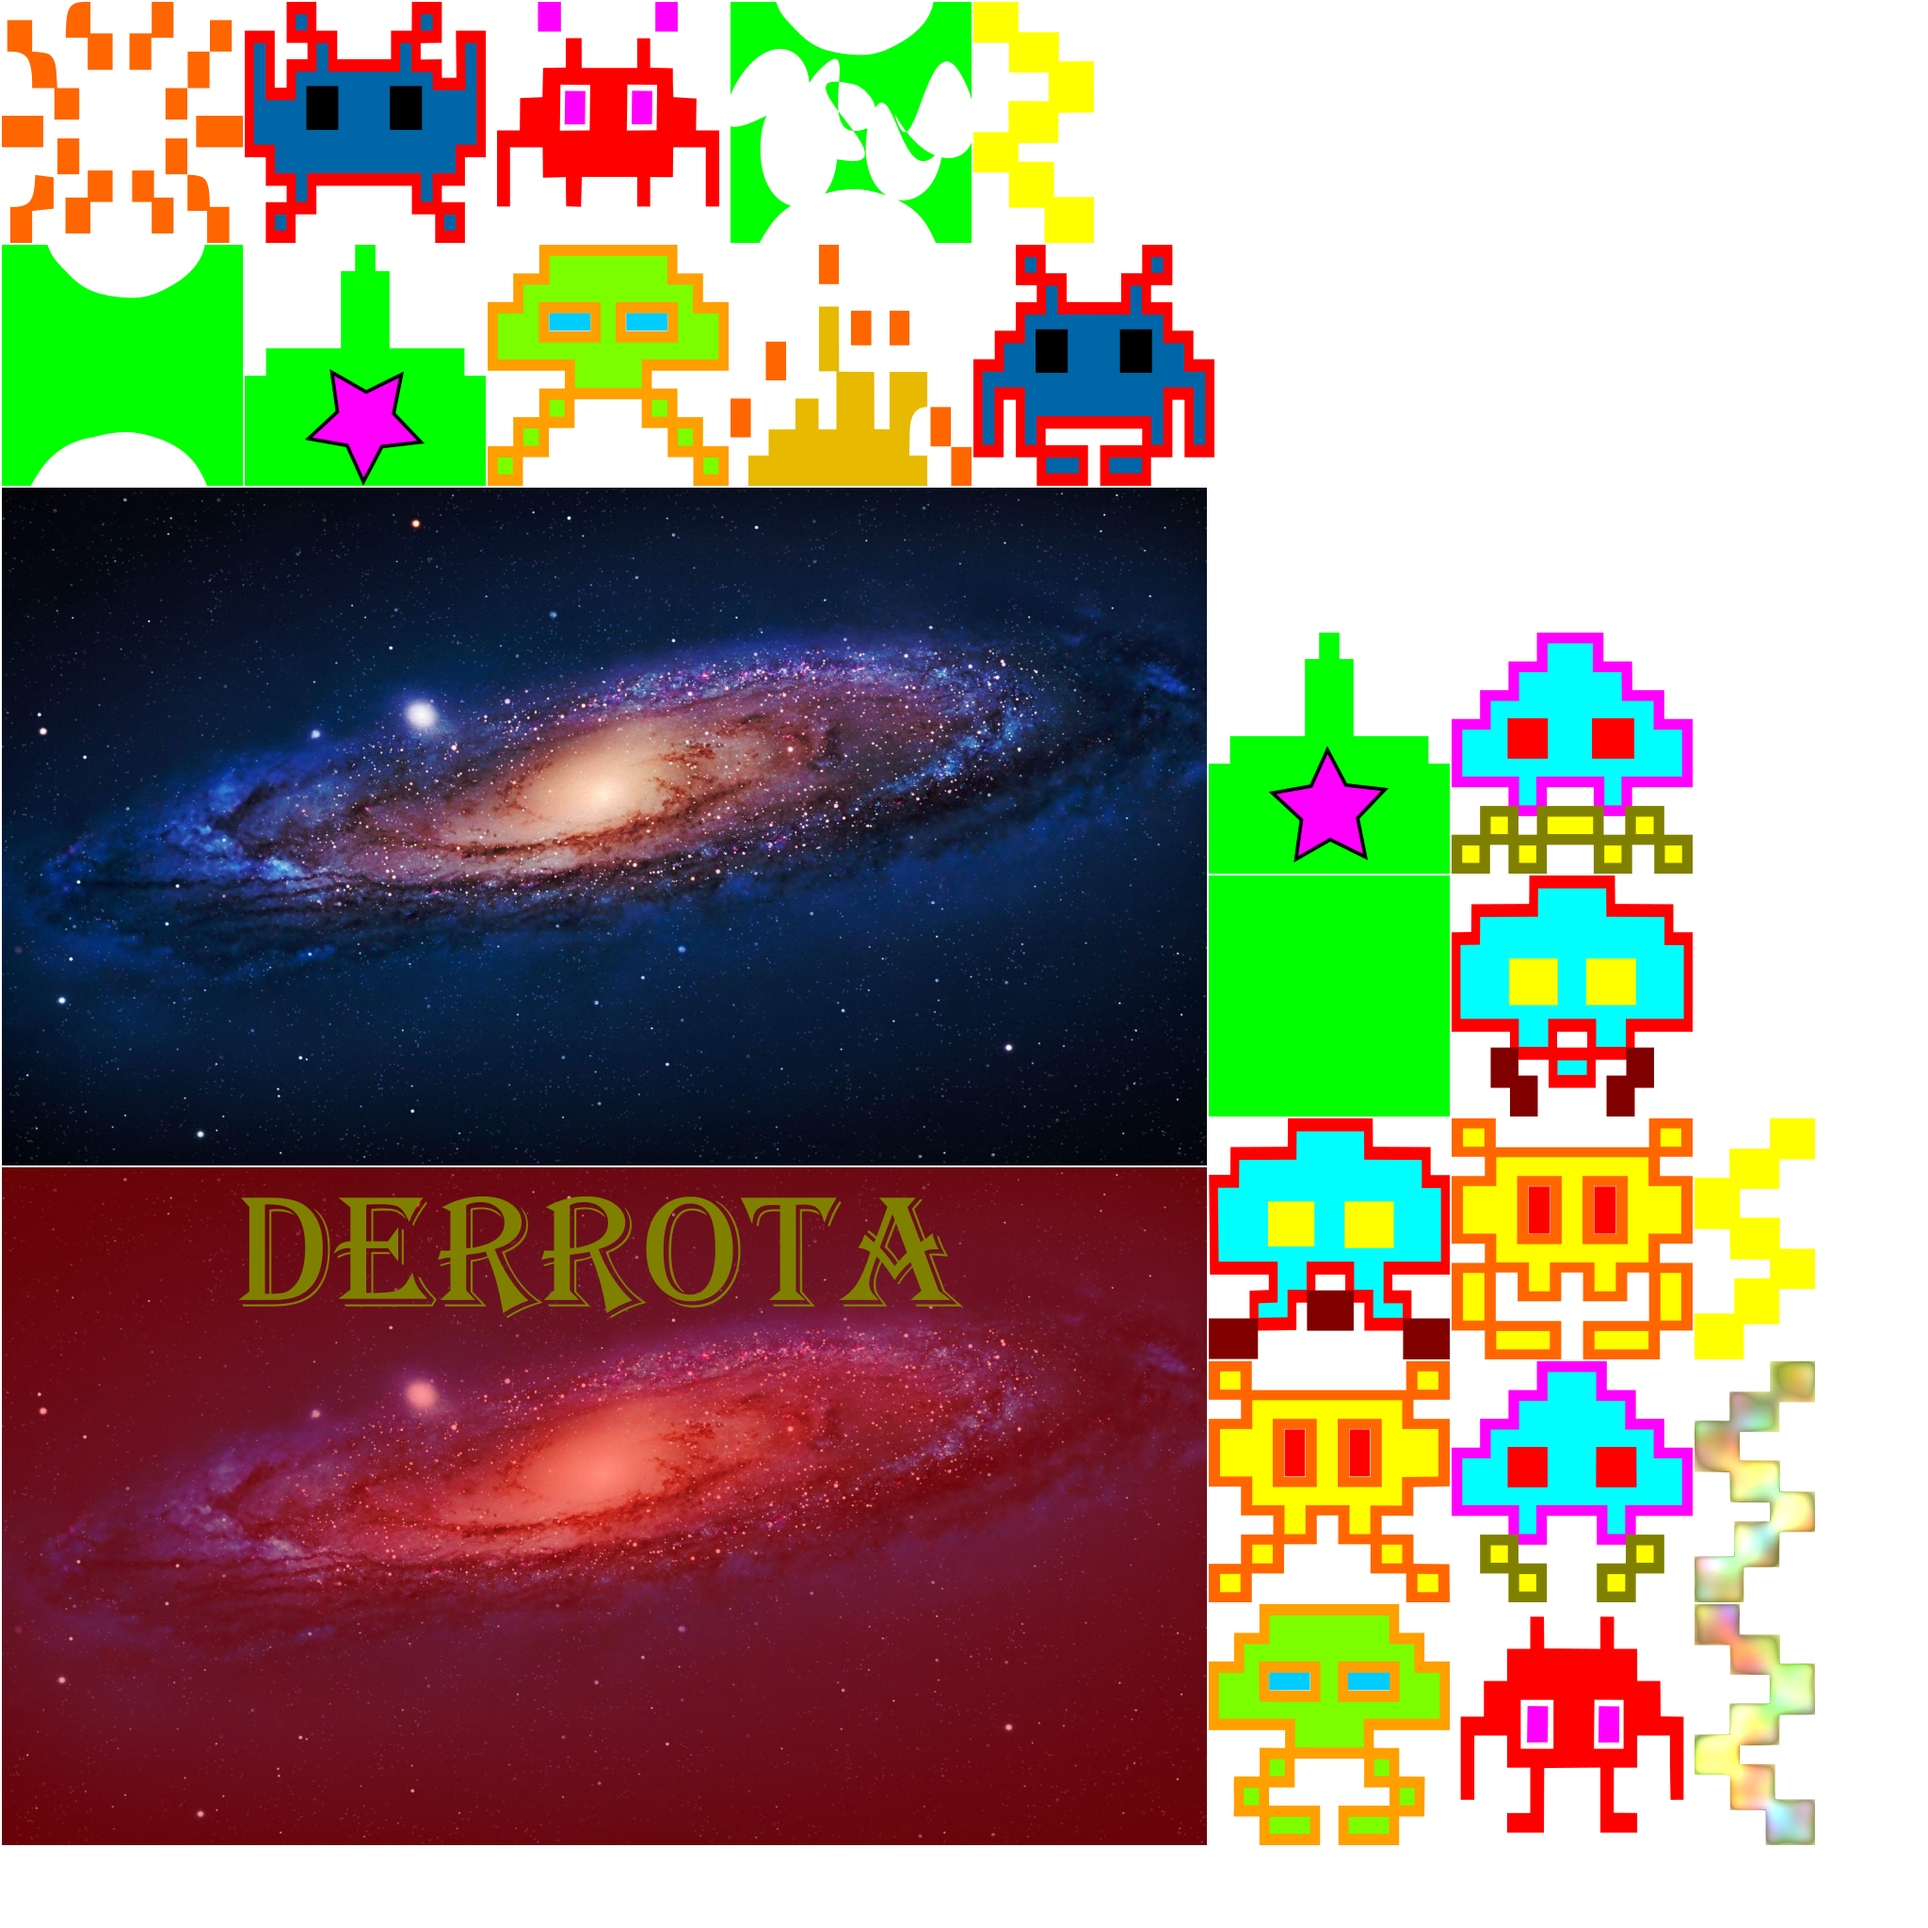
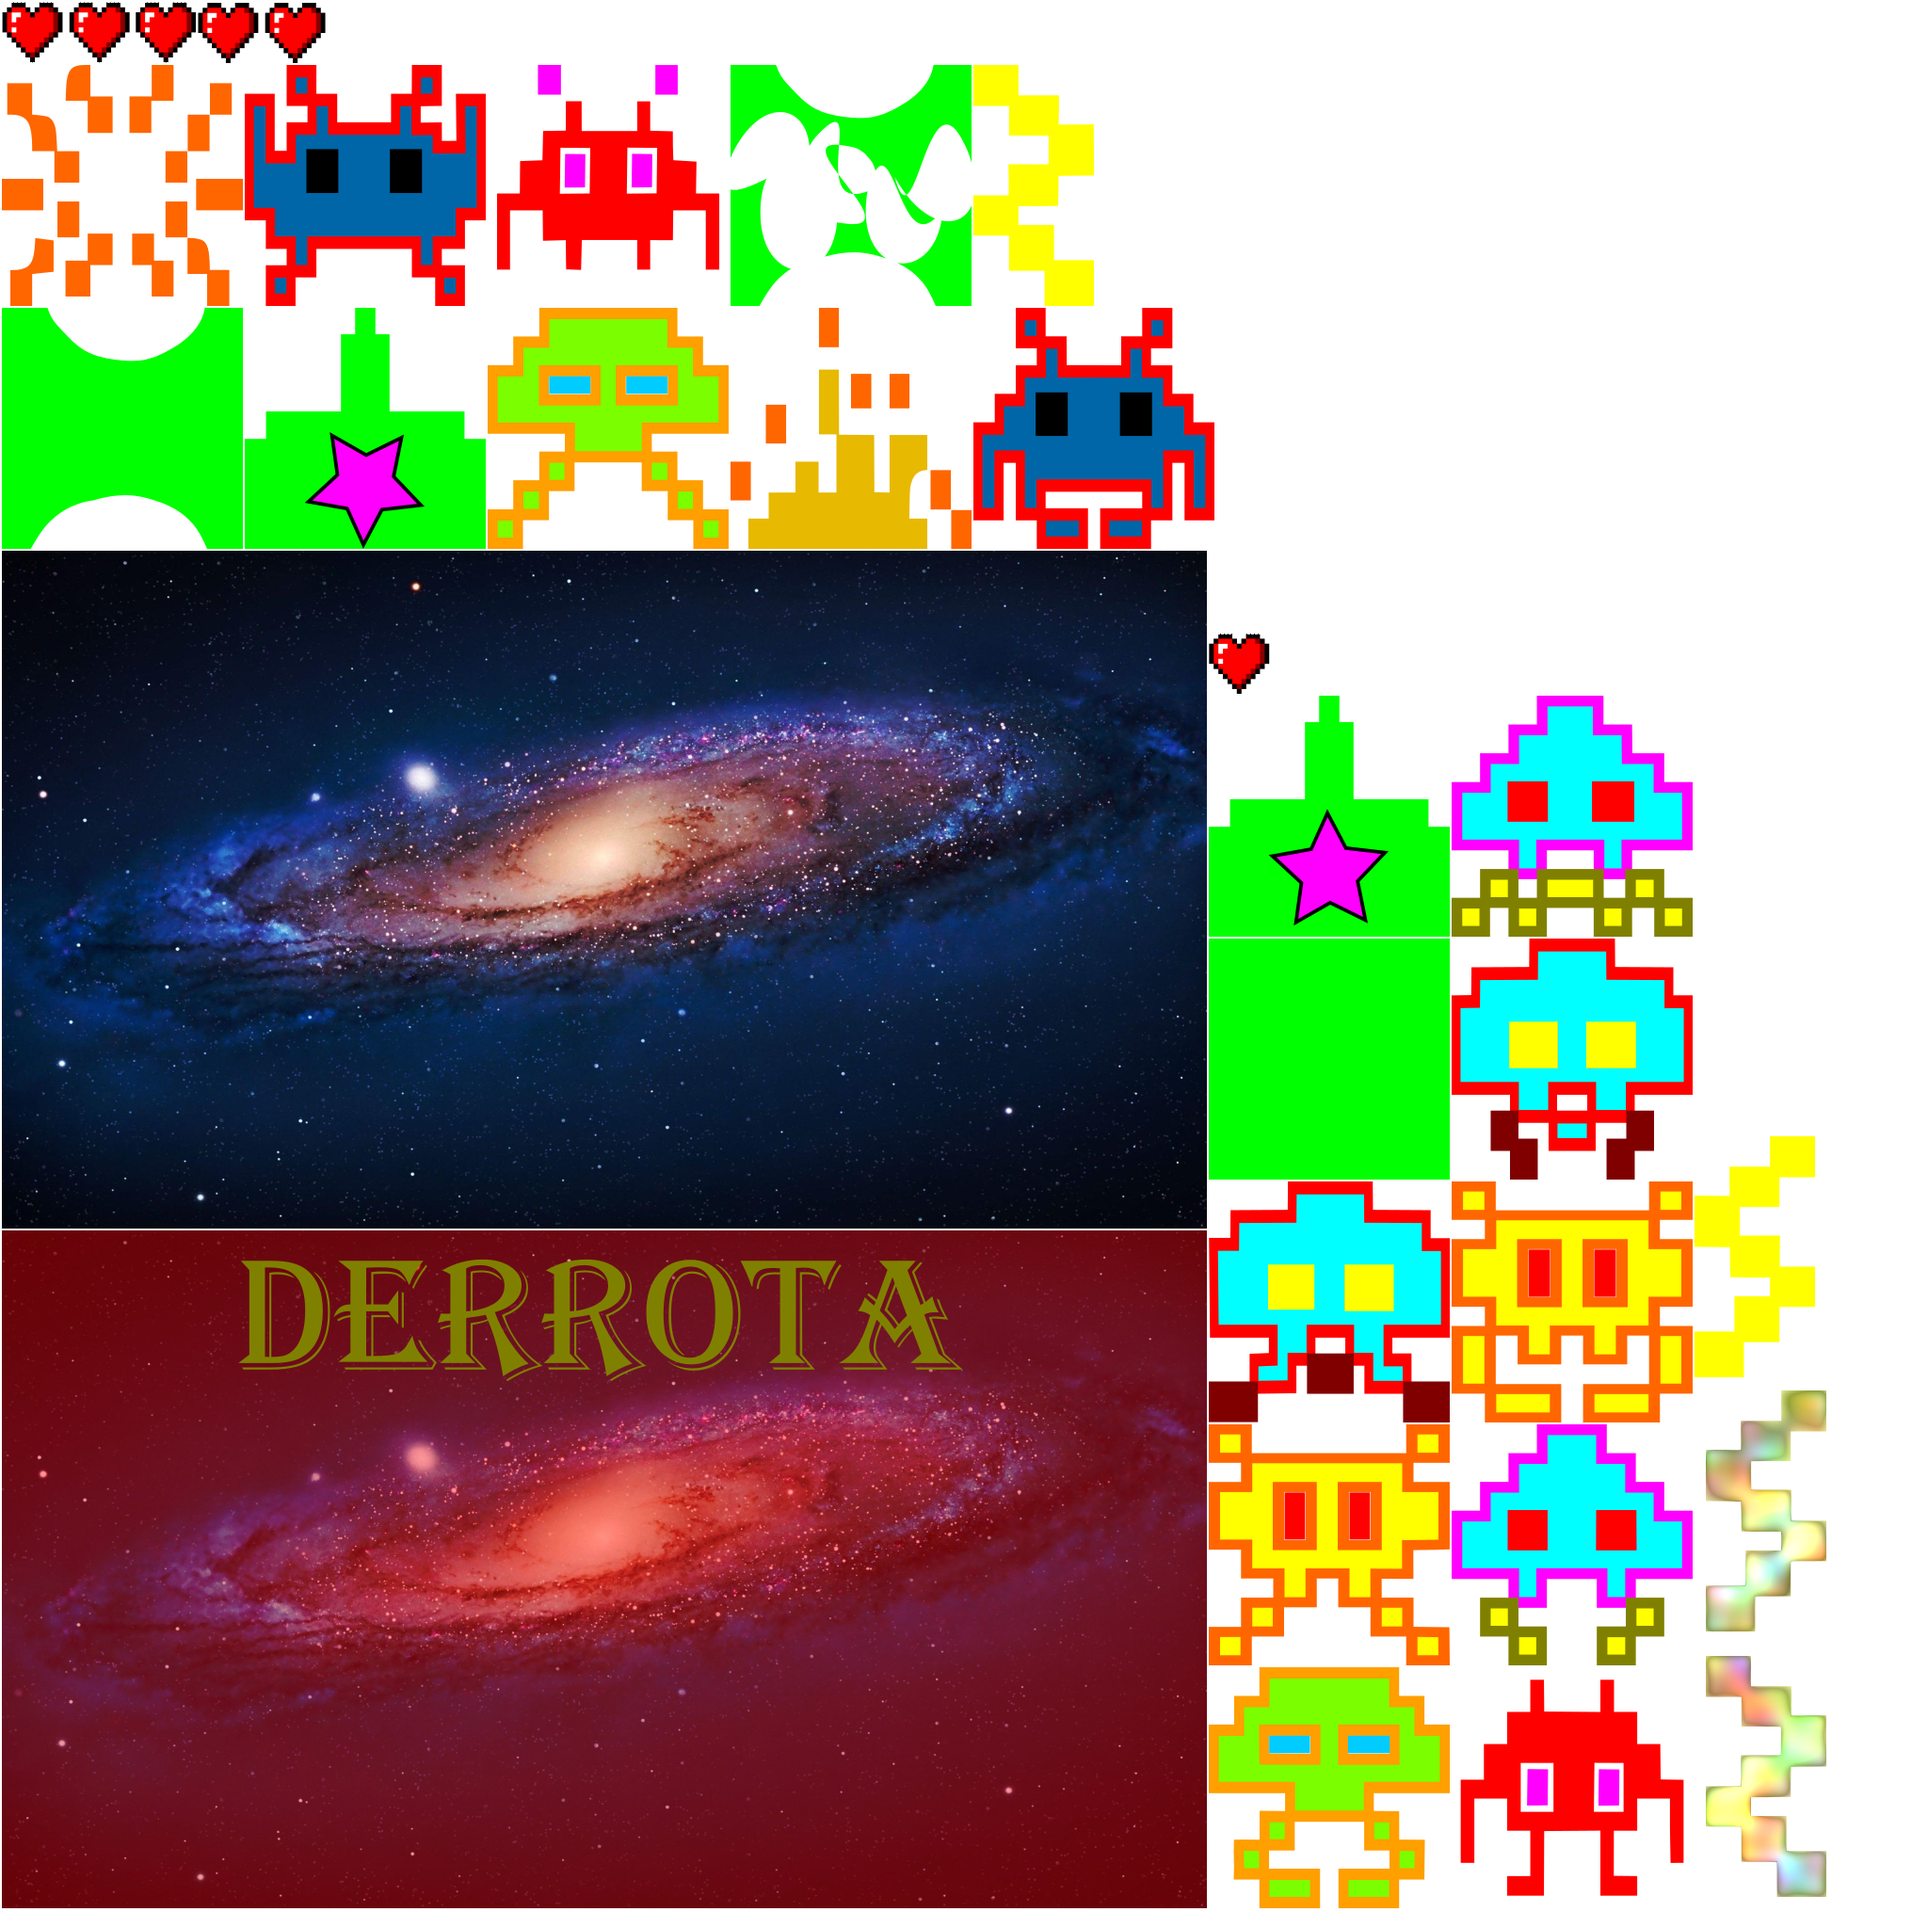
Adición de vidas en pantalla

diff --git a/core/src/com/andromeda/pantallas/PantallaJuego.java b/core/src/com/andromeda/pantallas/PantallaJuego.java
@@ -32,8 +32,9 @@ public class PantallaJuego extends PantallaBase {
 	private Controlador controlador;
 	private Colmena aliens;
 	private ActorBala balaAlien;
-	int alienRandom;
+	private int alienRandom;
 	private boolean derrota;
+	private AtlasRegion vida;
 	
 	/**
 	 * Constructor heredado.
@@ -61,8 +62,11 @@ public class PantallaJuego extends PantallaBase {
 		
 		Utils.actPantalla(Color.BLACK);
 		
+		actualizarVidas();
+		
 		batch.begin();
 			batch.draw(fondo, 0, 0, Const.WIDTH, Const.HEIGHT);
+			batch.draw(vida, 0, 0,128, 32);
 		batch.end();
 		
 		stage.act();
@@ -74,6 +78,13 @@ public class PantallaJuego extends PantallaBase {
 		stage.draw();
 	}
 	
+	private void actualizarVidas() {
+		// TODO Auto-generated method stub
+		vida = main.getAtlas().findRegion("vidaA");
+		if(jugador.getVidas() == 2) vida = main.getAtlas().findRegion("vidaB");
+		else if(jugador.getVidas() == 1) vida = main.getAtlas().findRegion("vidaC");
+	}
+
 	private void comprobarFinJuego() {
 		// TODO Auto-generated method stub
 		if (this.derrota) {
@@ -117,6 +128,7 @@ public class PantallaJuego extends PantallaBase {
 		
 		//Inicializa los aliens
 		aliens = new Colmena(64, 200, 4, 10, 32, 100, 10, main.getAtlas());
+		
 	}
 
 	private void agregarActoresEscenario() {

diff --git a/core/src/com/andromeda/actores/ActorAJugador.java b/core/src/com/andromeda/actores/ActorAJugador.java
@@ -109,11 +109,18 @@ public class ActorAJugador extends ActorAnimado {
 	}
 	
 	public void descontarVida() {
-		vidas--;
+		vidas = getVidas() - 1;
 	}
 	
 	public boolean muerto() {
-		if (vidas == 0) return true;
+		if (getVidas() == 0) return true;
 		return false;
+	}
+
+	/**
+	 * @return the vidas
+	 */
+	public int getVidas() {
+		return vidas;
 	}
 }
